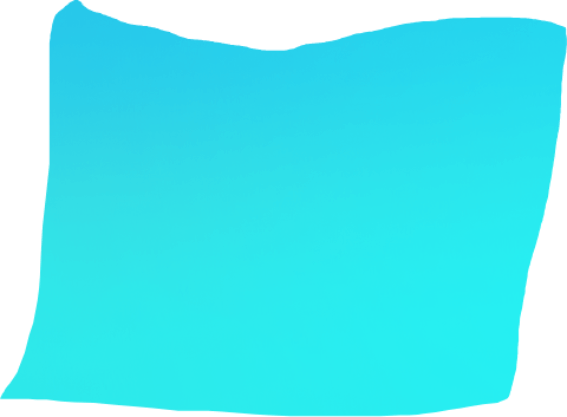
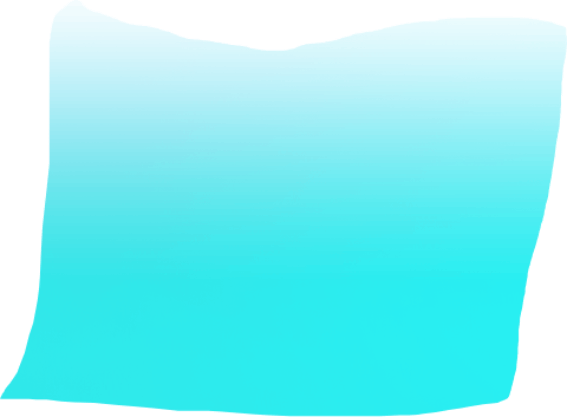
Minor fixes, added chest images.

diff --git a/src/views/pirate/Pirate.ts b/src/views/pirate/Pirate.ts
@@ -18,7 +18,6 @@ const LAYERS = [
 export class Pirate extends Container {
     private head: PirateHead;
     private body: PirateBody;
-    private water: Sprite;
     private wave: Sprite;
 
     constructor() {
@@ -36,12 +35,12 @@ export class Pirate extends Container {
     public idle(): void {
         this.body.idle();
         this.head.idle();
-        this.head.sad();
+        this.head.openMouth();
     }
 
     public float(): void {
         anime({
-            targets: this.wave,
+            targets: [this.wave],
             alpha: 1,
             duration: 300,
             easing: 'easeInOutSine',
@@ -50,12 +49,6 @@ export class Pirate extends Container {
             targets: this.wave.scale,
             x: 1,
             y: 1,
-            duration: 100,
-            easing: 'easeInOutSine',
-        });
-        anime({
-            targets: this.water,
-            alpha: 0.5,
             duration: 100,
             easing: 'easeInOutSine',
         });
@@ -75,26 +68,17 @@ export class Pirate extends Container {
 
         this.body = new PirateBody();
 
-        this.water = makeSprite({
-            texture: Images['pirate/water_layer'],
-            anchor: { x: 0.5, y: 0.5 },
-            scale: { x: 0.8, y: 0.8 },
-            position: { x: -27, y: 268 },
-        });
-
         this.wave = makeSprite({
             texture: Images['game/wave'],
             anchor: { x: 0.5, y: 0.5 },
             scale: { x: 0.1, y: 0.1 },
-            position: { x: 0, y: 130 },
+            position: { x: 0, y: 80 },
         });
 
-        this.water.alpha = 0;
         this.wave.alpha = 0;
 
         this.addChild(this.body);
         this.addChild(this.head);
-        this.addChild(this.water);
         this.addChild(this.wave);
     }
 }

diff --git a/src/assets.ts b/src/assets.ts
@@ -2,6 +2,11 @@
 
 export const assets = {
     images: {
+        'chest/0.png': require('../assets/images/chest/0.png').default,
+        'chest/1.png': require('../assets/images/chest/1.png').default,
+        'chest/2.png': require('../assets/images/chest/2.png').default,
+        'chest/3.png': require('../assets/images/chest/3.png').default,
+        'chest/4.png': require('../assets/images/chest/4.png').default,
         'elements/blue.png': require('../assets/images/elements/blue.png').default,
         'elements/green.png': require('../assets/images/elements/green.png').default,
         'elements/orange.png': require('../assets/images/elements/orange.png').default,
@@ -45,6 +50,11 @@ export const assets = {
 };
 
 export const Images = {
+    'chest/0': 'chest/0.png',
+    'chest/1': 'chest/1.png',
+    'chest/2': 'chest/2.png',
+    'chest/3': 'chest/3.png',
+    'chest/4': 'chest/4.png',
     'elements/blue': 'elements/blue.png',
     'elements/green': 'elements/green.png',
     'elements/orange': 'elements/orange.png',

diff --git a/src/views/BoardView.ts b/src/views/BoardView.ts
@@ -17,7 +17,7 @@ const BOUNDS = {
 
 const PIRATE = {
     initialPos: { x: -200, y: -300 },
-    targetPos: { x: -200, y: 196 },
+    targetPos: { x: -200, y: 230 },
     scale: 0.7,
 };
 
@@ -57,6 +57,7 @@ export class BoardView extends Container {
         this.buildBkg();
         this.buildBubbles();
         this.buildPirate();
+        this.addWater();
         // this.buildMatch3();
 
         // drawBounds(this);
@@ -64,6 +65,17 @@ export class BoardView extends Container {
 
     private buildBkg(): void {
         this.bkg = makeSprite({ texture: Images['game/bkg'], scale: { x: 1.5, y: 1.5 } });
+        this.addChild(this.bkg);
+    }
+
+    private addWater(): void {
+        const scale = 0.8 * PIRATE.scale;
+        this.bkg = makeSprite({
+            texture: Images['pirate/water_layer'],
+            anchor: { x: 0.5, y: 0.5 },
+            scale: { x: scale, y: scale },
+            position: { x: -217, y: 402 },
+        });
         this.addChild(this.bkg);
     }
 

diff --git a/src/models/Match3Model.ts b/src/models/Match3Model.ts
@@ -31,7 +31,7 @@ const boardConfig = {
         tileSize: 185,
     },
 
-    sword: {
+    bomb: {
         grid: [
             ['red', 'blue', 'red'],
             ['blue', 'red', 'blue'],
@@ -44,7 +44,7 @@ const boardConfig = {
         startY: -170,
         tileSize: 170,
     },
-    bomb: {
+    sword: {
         grid: [
             ['green', 'orange', 'green'],
             ['orange', 'green', 'orange'],
